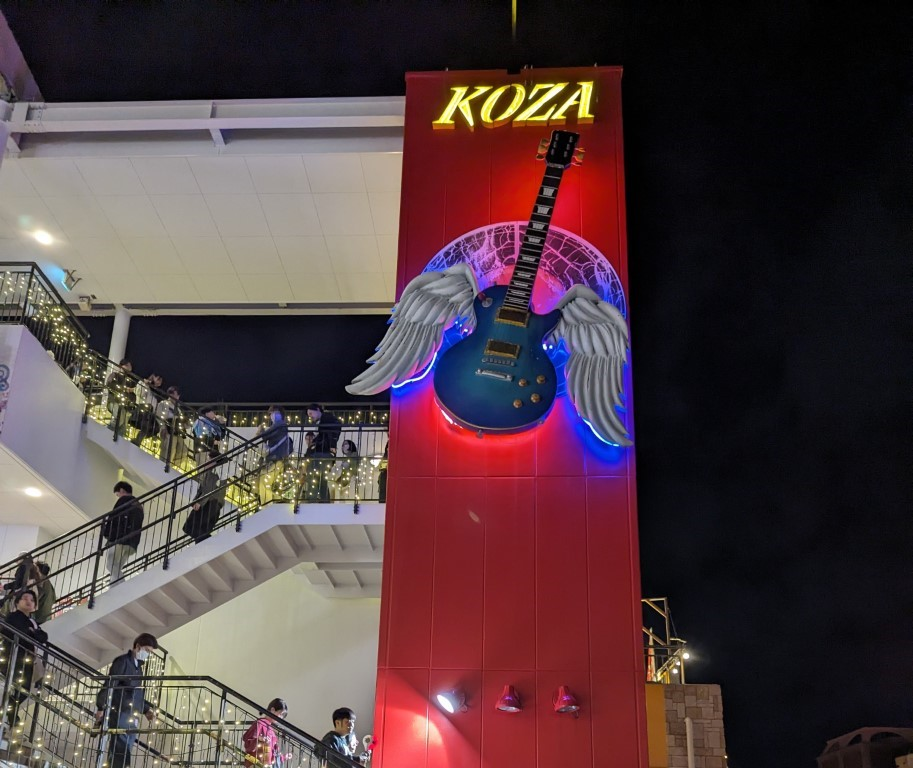
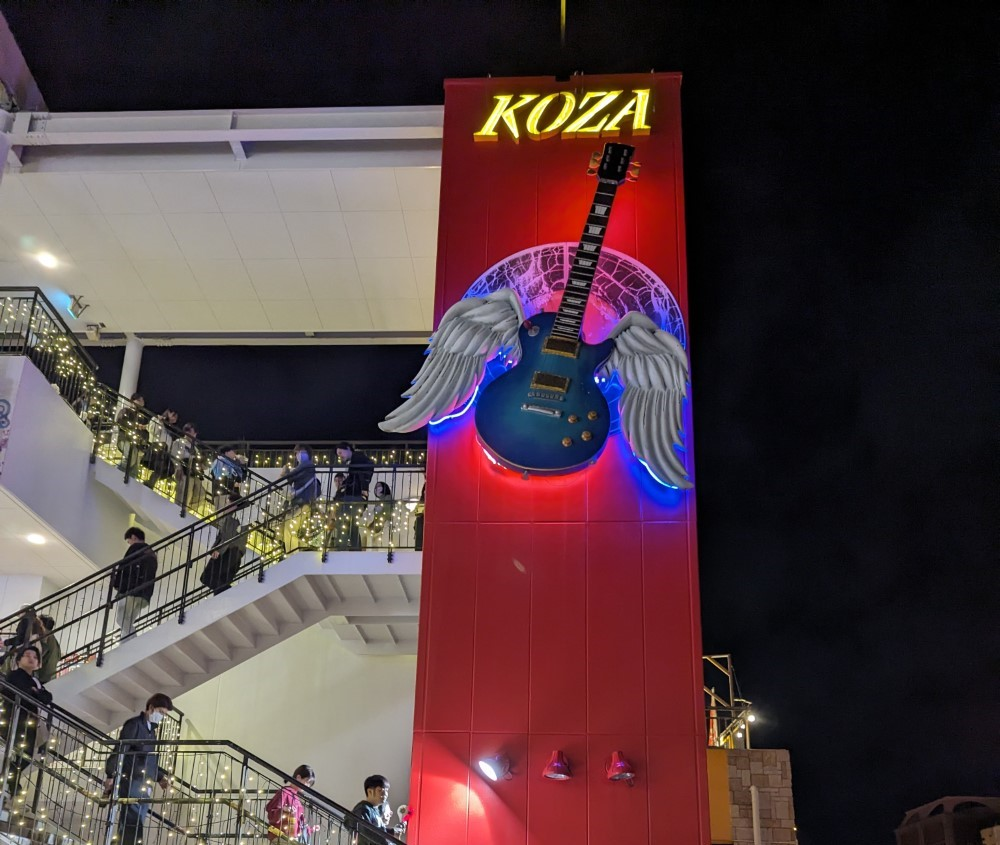
1. fix ztmy picture size 2. add picture in king gnu 3. add preview in hitsujibungaku

diff --git a/content/post/KingGnu-TheGreatestUnknown.md b/content/post/KingGnu-TheGreatestUnknown.md
@@ -62,13 +62,14 @@ MC擔當是井口理，除了一定會講的呷飽未之外還有喜歡 讚
 應該是我看過的演唱會裡面數一數二猛的，以後看演唱會要多看一個燈光師是誰🤣
 ![](/picture/KingGnu-TheGreatestUnknown/6.jpg)
 ![](/picture/KingGnu-TheGreatestUnknown/7.jpg)
+![](/picture/KingGnu-TheGreatestUnknown/8.jpg)
 
 事後King Gnu還捐了台北演唱會兩天的樂團收益給花蓮真的太有心... 
 
 他們是來台灣開大型練團室練團嗎😂😂(練團室還夭壽貴)
 
 期待下次再看他們表演
-![](/picture/KingGnu-TheGreatestUnknown/8.jpg)
+![](/picture/KingGnu-TheGreatestUnknown/9.jpg)
 
 ---
 

diff --git a/content/post/Hitsujibungaku-AsiaTour2024.md b/content/post/Hitsujibungaku-AsiaTour2024.md
@@ -10,6 +10,8 @@ tags:
   - "羊文學"
 ---
 
+羊文學又再次來台灣表演了！
+
 <!--more-->
 ![](/picture/Hitsujibungaku-AsiaTour2024/thumb.jpg)
 
